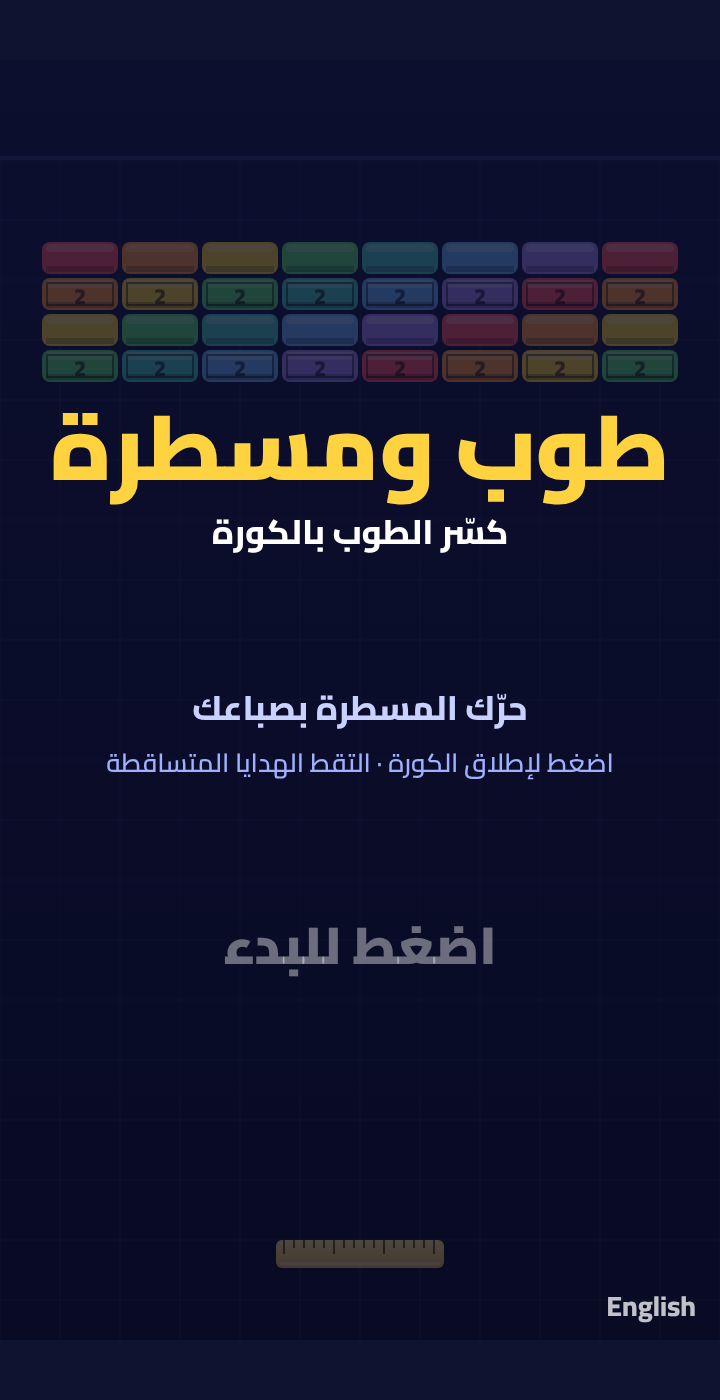
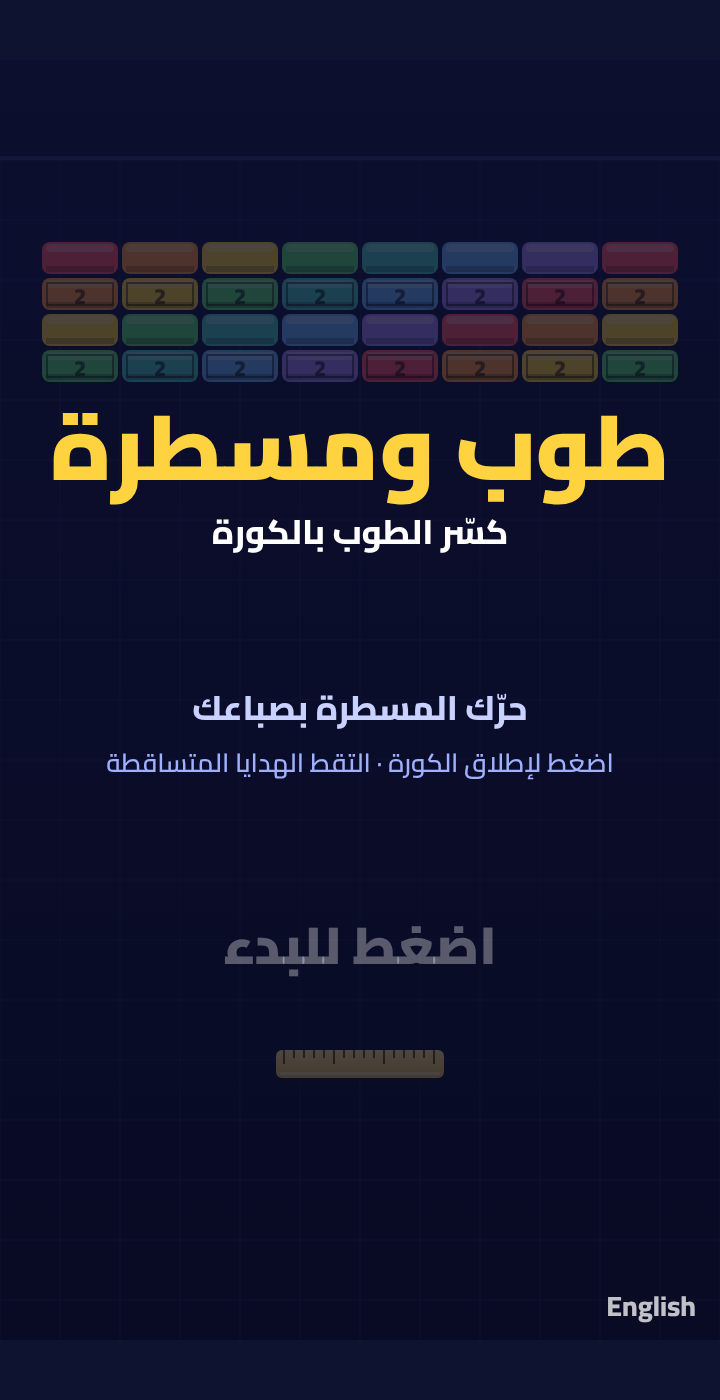
Raise the ruler so the finger does not cover it
Claude-Session: https://claude.ai/code/session_01JGm7uuHBme9aPPTucJwC8K

Changed region(s): [[0.3667, 0.86, 0.6111, 0.9214], [0.3667, 0.7371, 0.6111, 0.7679]]

diff --git a/brick-game/www/game.js b/brick-game/www/game.js
@@ -83,9 +83,9 @@
     paddle.x += (Math.max(paddle.w / 2, Math.min(B.W - paddle.w / 2, targetX)) - paddle.x) * Math.min(1, dt * 28);
     balls.forEach(function (b) { if (b.stuck) { b.x = paddle.x + b.off; b.y = B.PADDLE_Y - B.BALL_R; } else stepBall(b, dt); });
     if (balls.length && !balls[0].stuck) { var m = balls[0]; trail.push({ x: m.x, y: m.y }); if (trail.length > 8) trail.shift(); }
-    balls = balls.filter(function (b) { return b.stuck || b.y < B.H + 20; }); if (!balls.length && state === 'play') loseBall();
+    balls = balls.filter(function (b) { return b.stuck || b.y < B.PADDLE_Y + 90; }); if (!balls.length && state === 'play') loseBall();
     powers.forEach(function (p) { p.y += 130 * dt; if (p.y > B.PADDLE_Y - 6 && p.y < B.PADDLE_Y + 24 && Math.abs(p.x - paddle.x) < paddle.w / 2 + 14) { p.got = true; givePower(p.type); } });
-    powers = powers.filter(function (p) { return !p.got && p.y < B.H + 20; });
+    powers = powers.filter(function (p) { return !p.got && p.y < B.PADDLE_Y + 90; });
     if (B.remaining(bricks) === 0) { var bonus = 100 + 25 * level; score += bonus; level++; bricks = B.buildLevel(level); powers = []; newBall(); banner = { text: t('level') + ' ' + level + ' · ' + t('bonus') + ' +' + bonus, t: 1.8 }; tone(660, 0.15, 'triangle', 0.1, 1320); }
   }
 
@@ -124,7 +124,7 @@
       text(t('score') + ' ' + score, 14, 34, 20, '#fff', 'left', 900); text(t('level') + ' ' + level, B.W / 2 + 16, 34, 15, '#9fb0ff', 'center', 800);
       var hs = ''; for (var i = 0; i < lives; i++) hs += '❤'; ctx.font = '800 15px ' + FONT; ctx.textAlign = 'right'; ctx.fillStyle = '#fff'; ctx.fillText(hs, B.W - 14, 33);
       if (fx.wide > 0 || fx.slow > 0) text((fx.wide > 0 ? '↔ ' + Math.ceil(fx.wide) : '') + ' ' + (fx.slow > 0 ? '🐢 ' + Math.ceil(fx.slow) : ''), 14, 48, 11, '#4ecdc4', 'left', 800);
-      if (state === 'play' && balls.length && balls[0].stuck) { ctx.globalAlpha = 0.6 + 0.4 * Math.sin(tt * 5); text(t('launch'), B.W / 2, 470, 18, '#ffd23f', 'center', 800); ctx.globalAlpha = 1; }
+      if (state === 'play' && balls.length && balls[0].stuck) { ctx.globalAlpha = 0.6 + 0.4 * Math.sin(tt * 5); text(t('launch'), B.W / 2, 440, 18, '#ffd23f', 'center', 800); ctx.globalAlpha = 1; }
     }
     if (banner) { ctx.globalAlpha = Math.min(1, banner.t * 2); text(banner.text, B.W / 2, 400, 28, '#ffd23f', 'center', 900); ctx.globalAlpha = 1; }
     if (state === 'menu') overlay(function () {

diff --git a/brick-game/www/logic.js b/brick-game/www/logic.js
@@ -1,6 +1,6 @@
 // Pure rules for the ruler-and-bricks game. Browser: window.BrickLogic. Tests: require().
 (function (root) {
-  var W = 360, H = 640, PADDLE_Y = 590, PADDLE_H = 14, BALL_R = 7, COLS = 8, BW = 40, BH = 18, TOP = 90, LEFT = (W - COLS * BW) / 2;
+  var W = 360, H = 640, PADDLE_Y = 495, PADDLE_H = 14, BALL_R = 7, COLS = 8, BW = 40, BH = 18, TOP = 90, LEFT = (W - COLS * BW) / 2;
   var COLORS = ['#ff5a6e', '#ff9f43', '#ffd23f', '#5ee27a', '#4ecdc4', '#6bb7ff', '#a58bff'];
 
   function speedFor(level) { return Math.min(560, 330 + 20 * level); }
